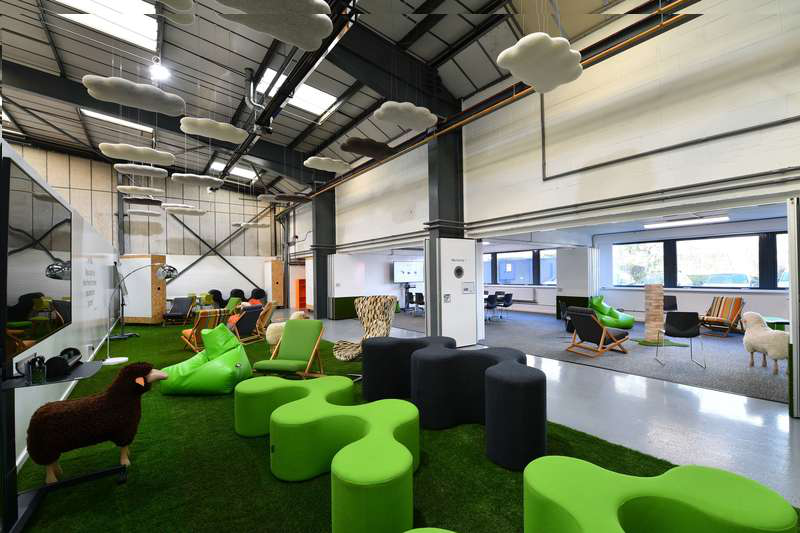
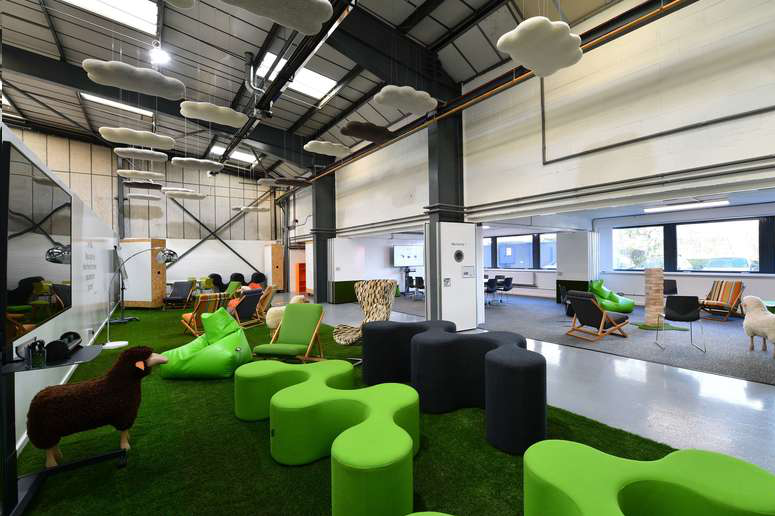
with main picture now 100% width

diff --git a/index.html b/index.html
@@ -55,14 +55,14 @@
 
 	<!--                                                                                                                               headline image section-->
 	
-        <section id="hero-outer">
-            <div id="hero-image">
-                <img src="assets/images/mainpicture.png" class="img-fluid" alt="Main picture of meeting room">
+        
+            <div>
+                <img src="assets/images/mainpicture.png" alt="Main picture of meeting room">
             </div>
             <div id="translucentbox">
                 <h1>meetings re:imagined</h1>
             </div>
-        </section>
+
 	<!--                                                                                                                               3 text sections with venue details-->
 	<section>
 

diff --git a/assets/css/style.css b/assets/css/style.css
@@ -59,17 +59,12 @@ body {
 
 /*-----------------------------------------------------------images*/
 
-#hero-img {
-  height:600px;
+img {
   width:100%;
+  height: auto;
+  background-repeat: no-repeat;
 }
 
-#hero-outer {
-  height:600px;
-  width:100%;
-  overflow: hidden;
-  position: relative;
-}
 
 #translucentbox, #translucentbox h1 {
   color:#a8e038;
